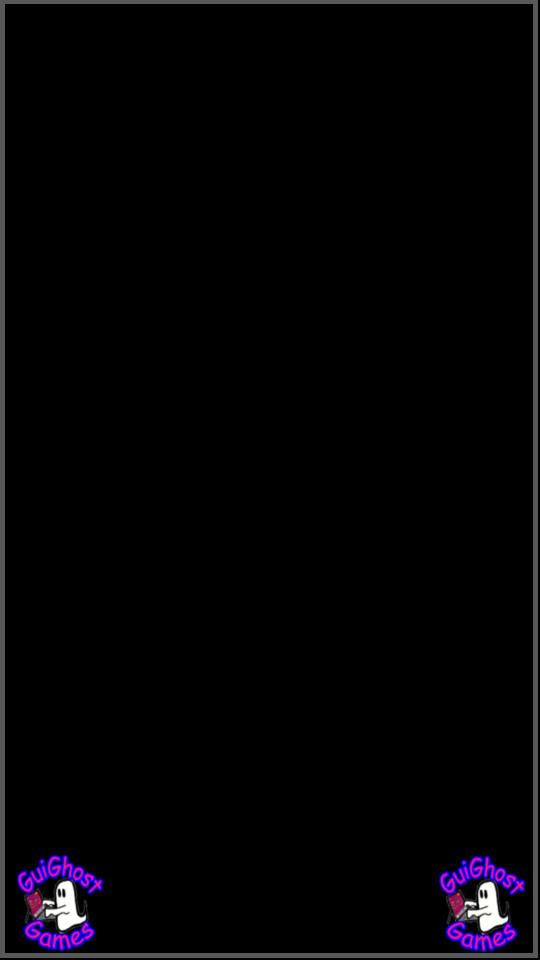
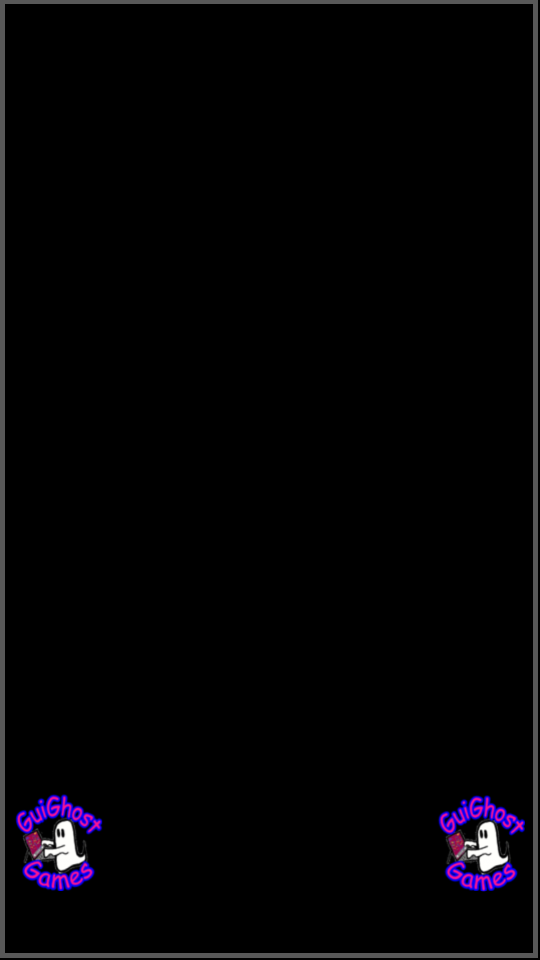
timer adjustments float down when almost out of time

Changed region(s): [[0.0296, 0.8125, 0.2074, 1.0], [0.8, 0.8125, 0.9778, 1.0]]

diff --git a/www/index.html b/www/index.html
@@ -88,7 +88,7 @@
         }
         #selfAdInner {
             position: absolute;
-            top: 8%;
+            top: 6%;
             left: 5%;
             width: 90%;
             height: 60%;
@@ -118,7 +118,7 @@
             display: inline-block;
             width: 300px;
             margin-left: 50%;
-            transform: translate(-150px,-25px);
+            transform: translate(-150px,-5px);
             z-index: 2000;
         }
         #linkTest2{
@@ -380,24 +380,28 @@
     <script type="text/javascript" src="cordova.js"></script>
     <script type="text/javascript" src="js/index.js"></script>
 
-    <script type="text/javascript">
-
-          try {
-              Enhance.logEvent('tutorial_begin');
-          } catch (err) { console.log("Caught Error: " + err) };
-    </script>
+  
 
  <script type=text/javascript> 
+
+   
 
      //cordova in app browser
           document.addEventListener("deviceready", onDeviceReady, false);
           function onDeviceReady() {
               try { window.open = cordova.InAppBrowser.open; }
-              catch(err){ "inappBrowsercalled - " + err}
+              catch (err) { "inappBrowsercalled - " + err }
+              try {
+                  Enhance.logEvent('tutorial_begin');
+              } catch (err) { console.log("Caught Error: " + err) };
             
           }
           document.getElementById("linkTest2").onclick = openLink;
-          function openLink() { var ref = cordova.InAppBrowser.open('https://play.google.com/store/apps/dev?id=8098884313818524240', '_blank', 'location=yes');}
+          
+          document.getElementById("gPlayImg").onclick = openLink2;
+
+          function openLink() { var ref = cordova.InAppBrowser.open('https://play.google.com/store/apps/dev?id=8098884313818524240', '_blank', 'location=yes'); }
+          function openLink2() { cordova.InAppBrowser.open('https://play.google.com/store/apps/details?id=com.GuiGhostGames.StarMatch2048', '_blank', 'location=yes'); }
         
 
         var selfPromote = false;

diff --git a/www/guiStack_New.js b/www/guiStack_New.js
@@ -585,12 +585,26 @@ playGame.prototype = {
     },
     tick: function () {
         this.timer++;
+        var timeLeft = gameOptions.timeLimit - this.timer
+   
         this.timeText.text = (gameOptions.timeLimit - this.timer).toString()
+        timeLeft = gameOptions.timeLimit - this.timer
+        if (timeLeft == 9) {                      
+            this.timeText.x = this.timeText.x + 20;
+        }
+        if (timeLeft < 6) {
+            
+            this.timeText.size = 108;
+            this.timeText.y = this.timeText.y + 35;
+            this.timeText.x = (game.width / 2 )- 45;
+        }
+     
         if (this.timer > gameOptions.timeLimit) {
             pauseAllAudio();
             game.time.events.remove(this.timerEvent);
             this.movingCrate.destroy();
             this.timeText.destroy();
+           
             game.time.events.add(Phaser.Timer.SECOND * 2, function () {
                 this.crateGroup.forEach(function (i) {
                     i.body.static = true;
